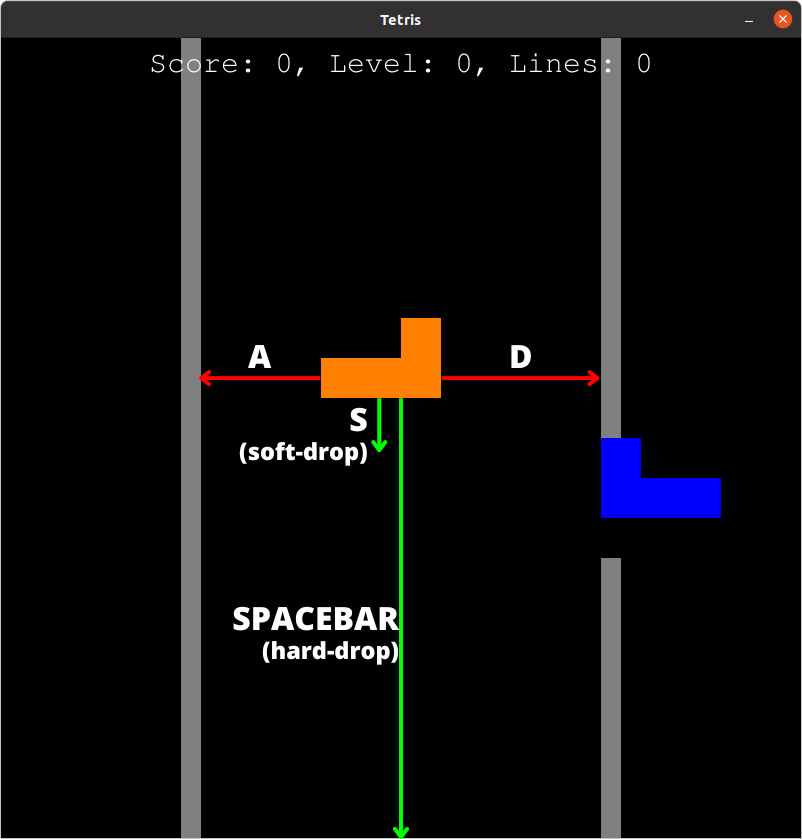
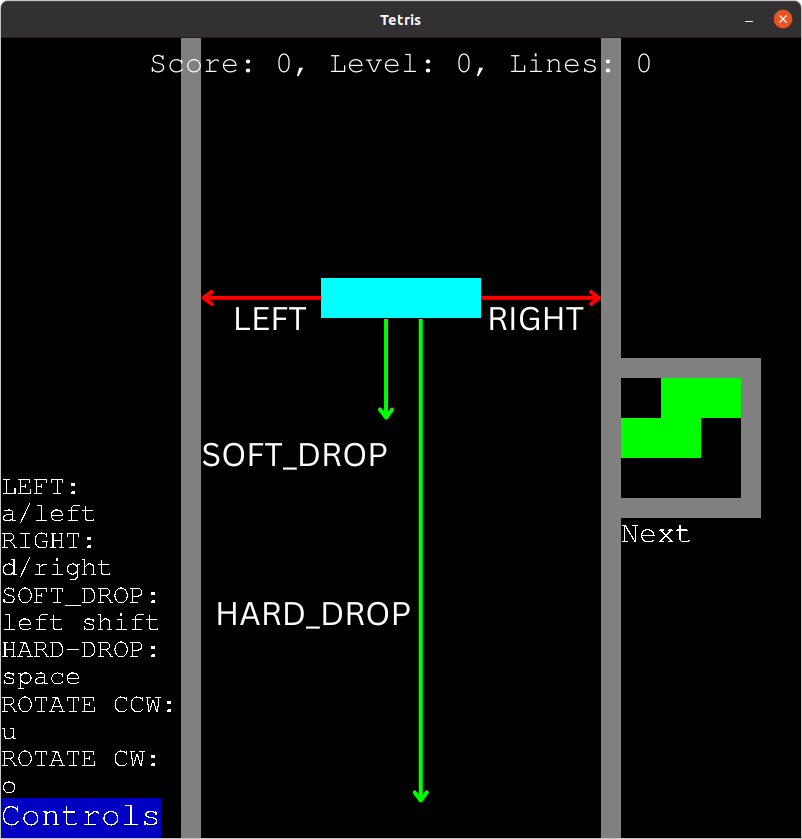
Add better controls explanation

diff --git a/README.md b/README.md
@@ -147,46 +147,27 @@ The goal is to get as much points as possible, before the pieces stack too high.
 
 When the 'next piece' tries to spawn at the top of the board as the new current piece, but any block in the board blocks it, the game ends.
 
-## Controls
-### Move piece
-| Key | Direction In 2D | Direction in 3D |
-| --- | --------------- | --------------- |
-| W   |                 | BACK            |
-| A          | LEFT | LEFT |
-| S          | DOWN/SOFT-DROP | FRONT |
-| D          | RIGHT | RIGHT |
-| LEFT_SHIFT | DOWN/SOFT-DROP | DOWN/SOFT-DROP |
-| SPACEBAR   | HARD-DROP | HARD-DROP |
+## Keyboard Controls
+The keyboard controls' settings can be found in ``keyboard_settings.json``.
+### Controls's Definitions
+In 2D, the "LEFT" and "RIGHT" keys move the piece left and right,
+"DOWN" and "SOFT_DROP" soft-drop the piece,
+and "HARD_DROP" hard-drops it
+<img src="images/2D_moves.png" alt="LEFT and RIGHT move like their names, SOFT_DROP moves one block down and HARD_DROP moves ALL THE WAY down">
 
-<img src="https://github.com/GABETROLL/Tetris3D/blob/master/images/2D_moves.png?raw=true" alt="key-direction pair illustration with 2D board screenshot and arrows" width=40%>
-<img src="https://github.com/GABETROLL/Tetris3D/blob/master/images/3D_moves.png?raw=true" alt="key-direction pair illustration with 3D board screenshot and arrows" width=40%>
+<img src="images/3D_moves.png" alt="LEFT and RIGHT move left and right, UP moves back, DOWN moves front, SOFT_DROP moves one block down, and HARD_DROP moves ALL THE WAY down">
+In 3D, UP and DOWN move the piece back and front,
+and "SOFT_DROP" and "HARD_DROP" work exactly as their names.
 
-### Rotate Piece
-| key | axis | clockwise | 2D | 3D |
-| --- | ---- | --------- | -- | -- |
-| U   | Y    | False     | :heavy_check_mark: | :heavy_check_mark: |
-| O   | Y    | True      | :heavy_check_mark: | :heavy_check_mark: |
-| I   | X    | False     |  | :heavy_check_mark: |
-| K   | X    | True      |  | :heavy_check_mark: |
-| J   | Z    | True      |  | :heavy_check_mark: |
-| L   | Z    | False     |  | :heavy_check_mark: |
---------------------------------------------------
-<img src="https://github.com/GABETROLL/Tetris3D/blob/master/images/2D_rotation.png?raw=true" alt="O-piece in 2D mode with arrows in both 2D rotation directions" width=40%>
-<img src="https://github.com/GABETROLL/Tetris3D/blob/master/images/3D_rotation.png?raw=true" alt="T-piece in 3D mode with arrows in all rotation axii, mapped to their keys" width=40%>
+### Edit The Keyboard Controls
 
-The 3D controls are just the 2D controls, with 2 more axii of rotation, relative to the player's "POV".
-Just imagine being able to stick you finger "into the screen" and push the piece in that direction, using the U, I, O, J, K, L keys, as if the keys were in front of the piece.
-### Moving in menu screens
-Move between (inner) menus:
-```
-W/UP
-S/DOWN
-```
-Change menu option:
-```
-A/LEFT  : go to previous option
-D/RIGHT : go to next option
-```
+<img src="images/controls_screen.png" alt="List of control names (like LEFT, RIGHT, menu_submit, ...) and their keys">
+Click on the "Controls" button anywhere but the controls' screen. That button will take you to the controls screen, where you can see the list of all of the in-game actions, and their keys.
+
+To edit a control, click the control ROW (to tell if your mouse is on top of it, just make sure it turns yellow) and press the key to do that function.
+
+This should not only change the controls in the current gameplay, but should save the settings to the 'keyboard_settings.json', IF YOU EXIT THE CONTROLS SCREEN AND RETURN TO THE GAME.
+
 ## Code Documentation
 ### File Structure & Definitions
 ```
